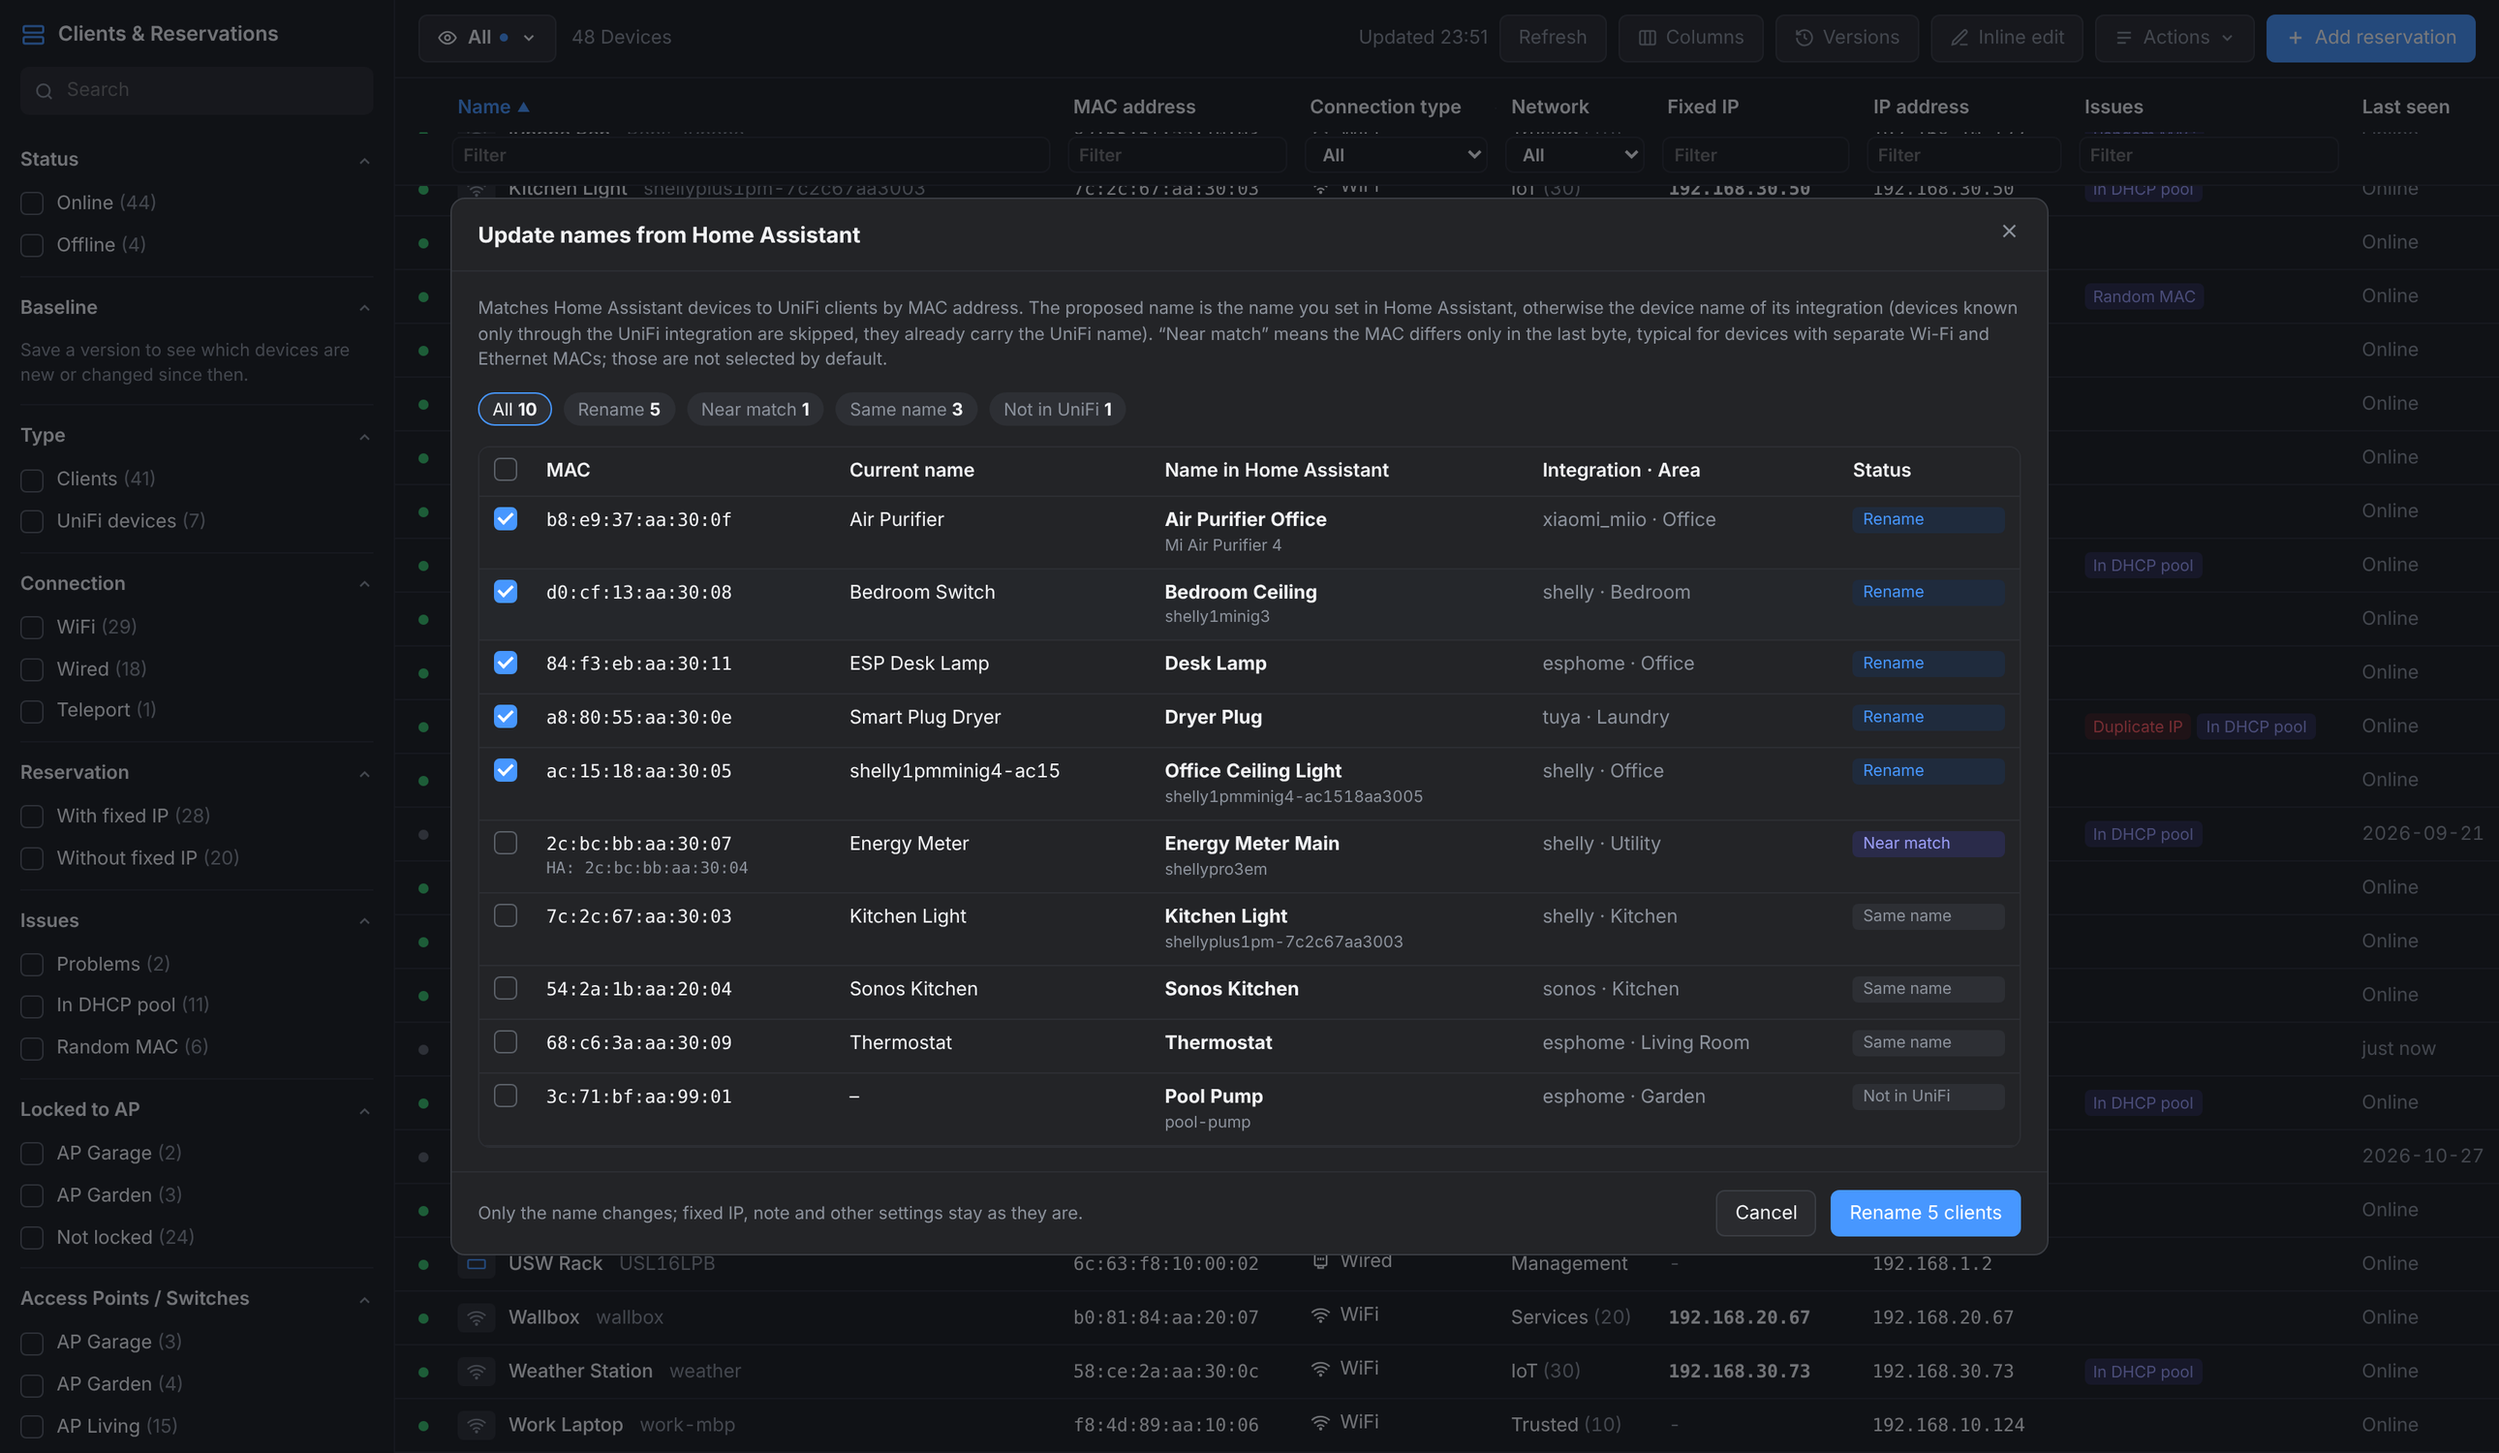
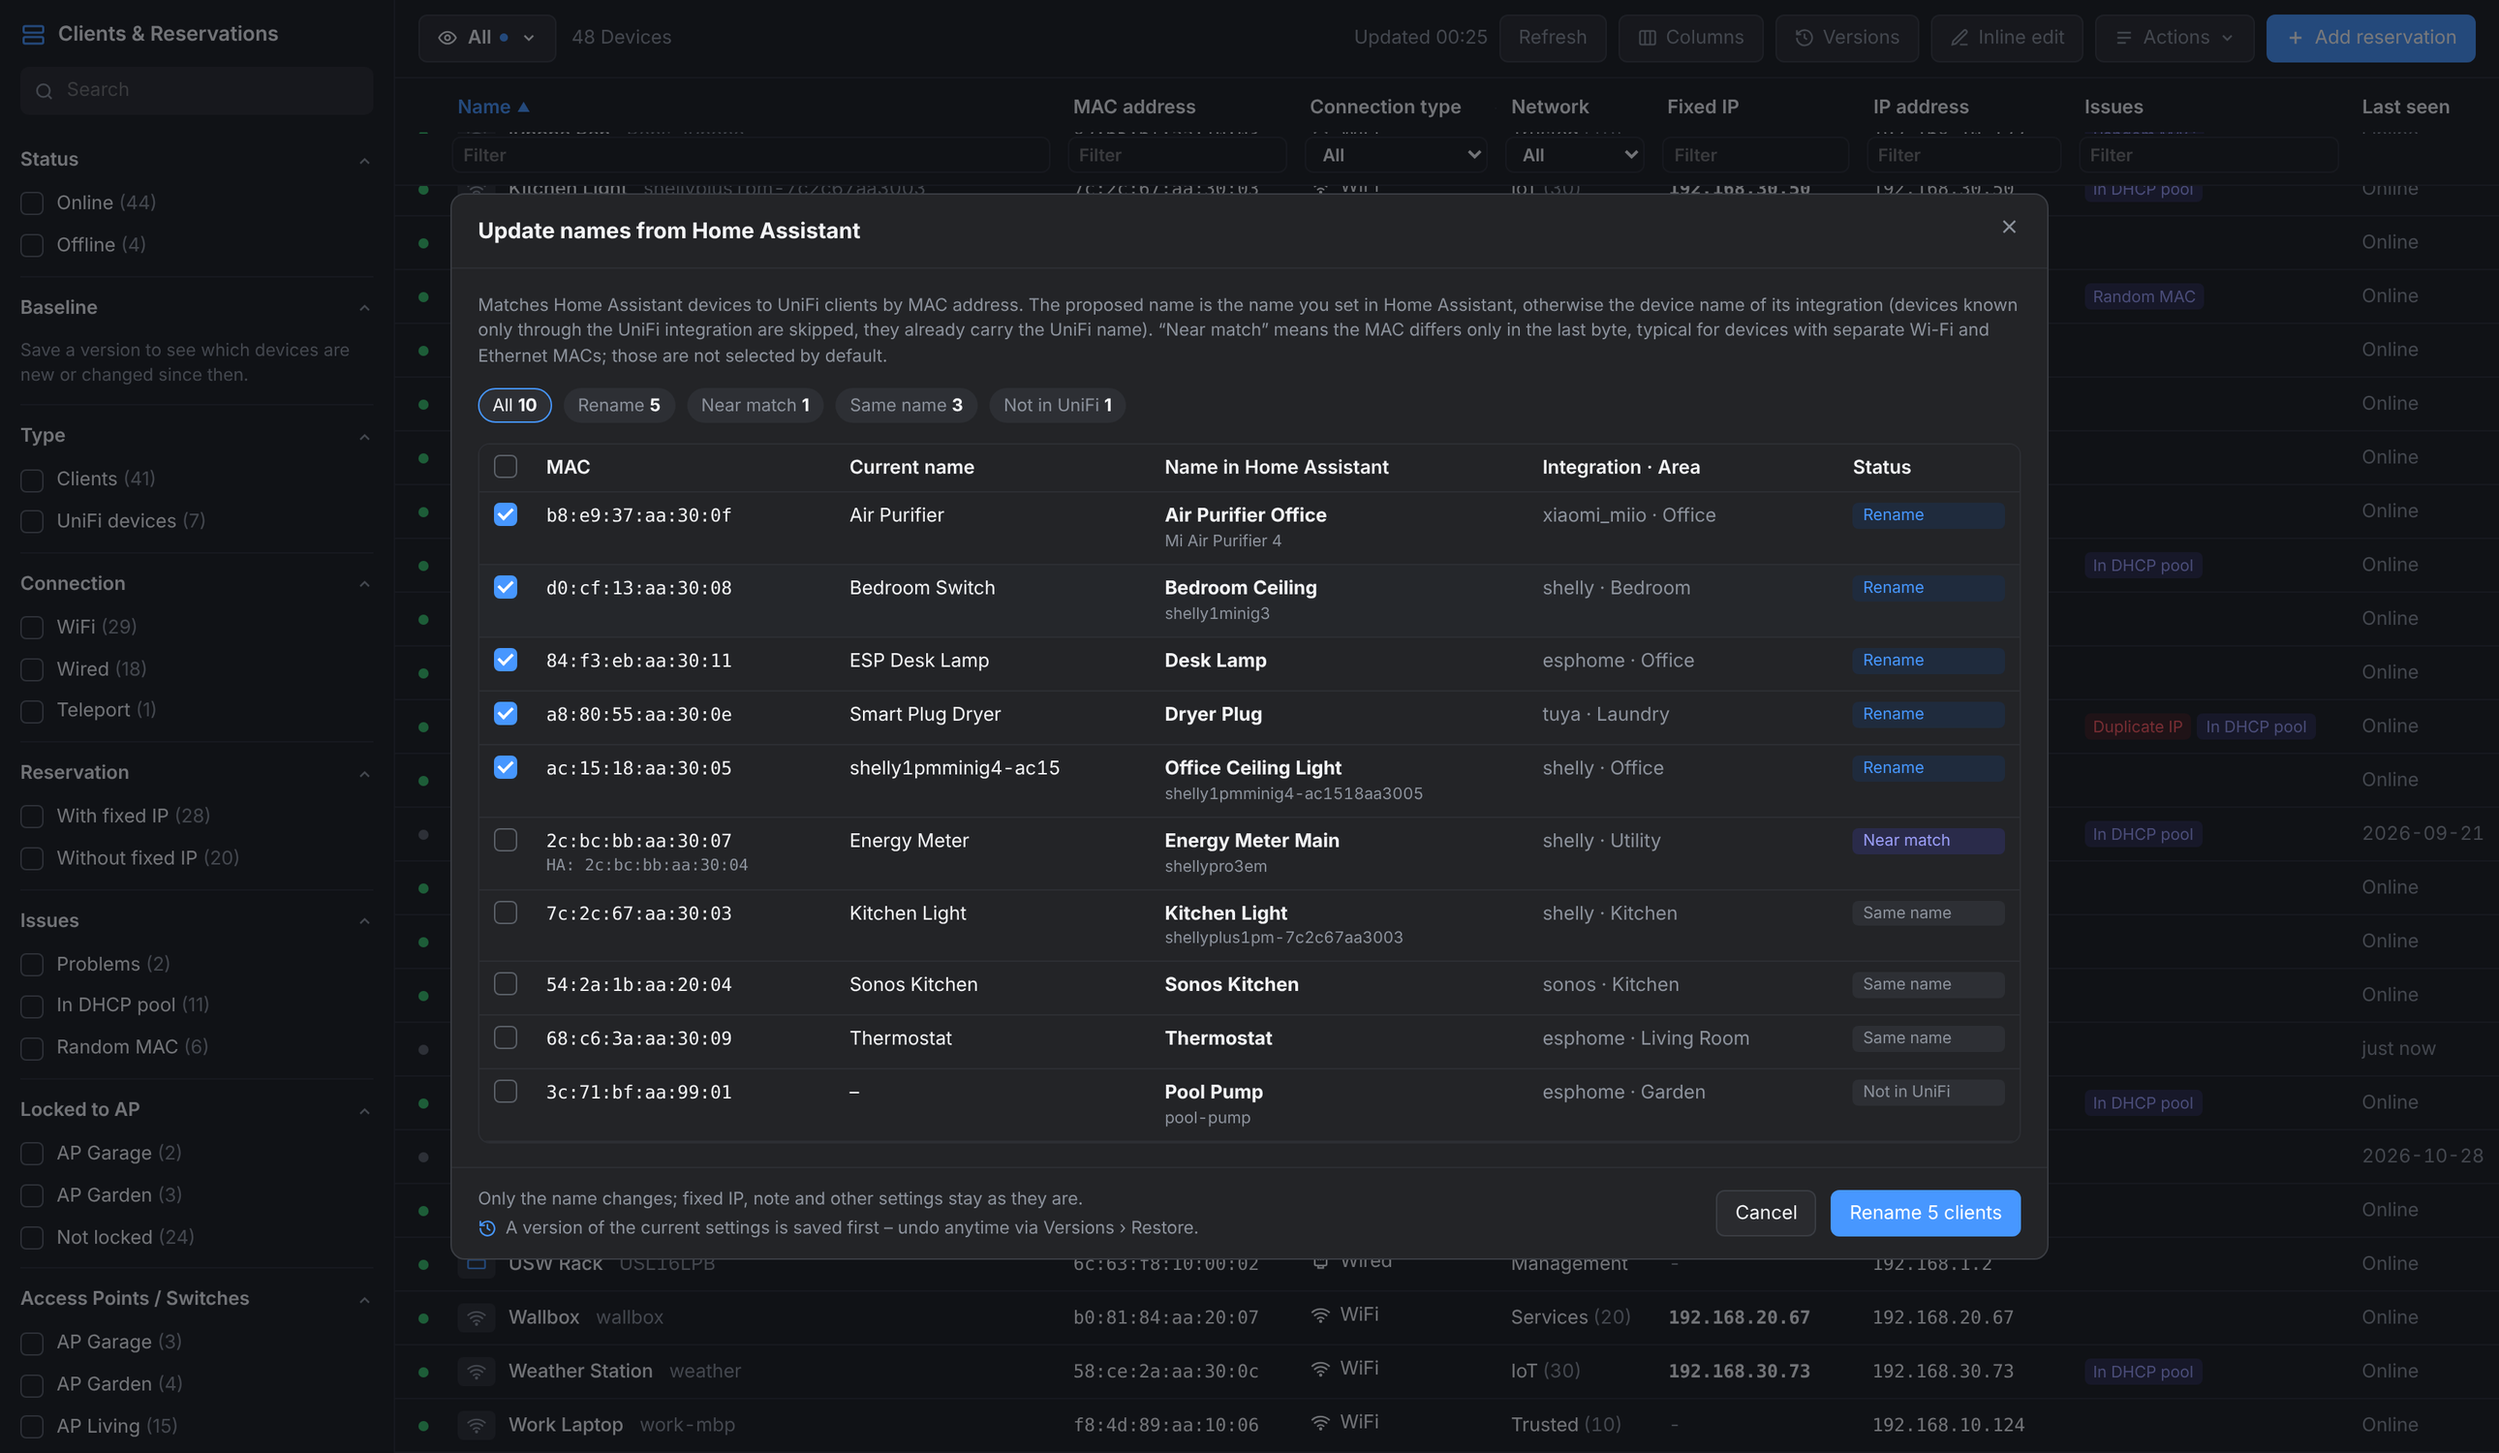
1.9.6: bulk dialogs mention the automatic version; CSV import screenshot
Claude-Session: https://claude.ai/code/session_01Qq55cKasRq5dm39rxnrsJV

diff --git a/dhcp_reservations/app/static/index.html b/dhcp_reservations/app/static/index.html
@@ -211,6 +211,9 @@ dialog#dlgSub{border:1px solid var(--line-strong);border-radius:10px;padding:0;b
 .switch input:checked::after{left:16px}
 .hint{font-size:12px;color:var(--muted)}
 .hint a{color:var(--accent)}
+.imp-foot .notes{display:flex;flex-direction:column;gap:3px;min-width:0}
+.vnote{display:flex;align-items:center;gap:6px}
+.vnote svg{flex:none;color:var(--accent)}
 .err{color:var(--bad);background:var(--bad-bg);padding:8px 10px;border-radius:6px}
 .actions{display:flex;gap:8px;justify-content:flex-end;flex-wrap:wrap}
 .danger-zone{display:grid;gap:10px}
@@ -375,7 +378,7 @@ dialog#dlgImport::backdrop{background:rgba(8,10,14,.55)}
       </div>
     </div>
     <div class="imp-foot">
-      <span class="hint" id="impNote">Rows with errors or without changes are not applied.</span>
+      <div class="notes"><span class="hint" id="impNote">Rows with errors or without changes are not applied.</span><span class="hint vnote"><svg width="13" height="13" viewBox="0 0 24 24" fill="none" stroke="currentColor" stroke-width="2" stroke-linecap="round" aria-hidden="true"><path d="M3 12a9 9 0 1 0 3-6.7L3 8"/><path d="M3 3v5h5M12 7v5l3 2"/></svg>A version of the current settings is saved first – undo anytime via Versions › Restore.</span></div>
       <div class="prog" id="impProg" hidden><i></i></div>
       <span class="sp"></span>
       <button class="btn" type="button" id="impCancel">Cancel</button>
@@ -408,7 +411,7 @@ dialog#dlgImport::backdrop{background:rgba(8,10,14,.55)}
       </div>
     </div>
     <div class="imp-foot">
-      <span class="hint">Rows with errors are never applied.</span>
+      <div class="notes"><span class="hint">Rows with errors are never applied.</span><span class="hint vnote"><svg width="13" height="13" viewBox="0 0 24 24" fill="none" stroke="currentColor" stroke-width="2" stroke-linecap="round" aria-hidden="true"><path d="M3 12a9 9 0 1 0 3-6.7L3 8"/><path d="M3 3v5h5M12 7v5l3 2"/></svg>A version of the current settings is saved first – undo anytime via Versions › Restore.</span></div>
       <div class="prog" id="subProg" hidden><i></i></div>
       <span class="sp"></span>
       <button class="btn" type="button" id="subCancel">Cancel</button>
@@ -426,7 +429,7 @@ dialog#dlgImport::backdrop{background:rgba(8,10,14,.55)}
       <div class="imp-table"><table><thead><tr><th style="width:34px"><label class="opt" title="Select all"><input type="checkbox" id="haAll" aria-label="Select all"></label></th><th>MAC</th><th>Current name</th><th>Name in Home Assistant</th><th>Integration · Area</th><th>Status</th></tr></thead><tbody id="haRows"></tbody></table></div>
     </div>
     <div class="imp-foot">
-      <span class="hint">Only the name changes; fixed IP, note and other settings stay as they are.</span>
+      <div class="notes"><span class="hint">Only the name changes; fixed IP, note and other settings stay as they are.</span><span class="hint vnote"><svg width="13" height="13" viewBox="0 0 24 24" fill="none" stroke="currentColor" stroke-width="2" stroke-linecap="round" aria-hidden="true"><path d="M3 12a9 9 0 1 0 3-6.7L3 8"/><path d="M3 3v5h5M12 7v5l3 2"/></svg>A version of the current settings is saved first – undo anytime via Versions › Restore.</span></div>
       <div class="prog" id="haProg" hidden><i></i></div>
       <span class="sp"></span>
       <button class="btn" type="button" id="haCancel">Cancel</button>

diff --git a/README.md b/README.md
@@ -33,25 +33,30 @@ versions you can compare and restore.
 | **Names from Home Assistant** | Proposes the names from the HA device registry, matched by MAC. Includes a "near match" for devices with separate WiFi/Ethernet MACs. |
 | **Versions** | Snapshot the table manually, daily, and automatically before every bulk action. **Compare** two versions (new / removed / changed devices; spots a device that came back with a new random MAC). **Restore** through a preview. A *Changed since …* filter shows what changed since a version. |
 | **CSV import & export** | Bulk changes with a validated preview and a checkbox per row. An export can be re-imported as is. |
+| **Safe bulk changes** | Every bulk action (CSV import, restore, replace subnet, names from HA) saves a version of the current settings first, so you can always go back via *Versions › Restore*. |
 
 ## Screenshots
 
 <table>
   <tr>
     <td width="50%"><img src="docs/screenshots/replace-subnet.png" alt="Replace subnet with collision check"><br><b>Replace subnet</b> – preview with collision check: an address that is already reserved is an error, an address in use is a warning.</td>
-    <td width="50%"><img src="docs/screenshots/compare-versions.png" alt="Compare versions"><br><b>Compare versions</b> – new, removed and changed devices since a snapshot.</td>
+    <td width="50%"><img src="docs/screenshots/csv-import.png" alt="CSV import with validation"><br><b>CSV import</b> – every row is validated before anything changes: duplicate IP, IP outside the network, invalid MAC, unknown AP.</td>
   </tr>
   <tr>
+    <td><img src="docs/screenshots/compare-versions.png" alt="Compare versions"><br><b>Compare versions</b> – new, removed and changed devices since a snapshot.</td>
     <td><img src="docs/screenshots/names-from-ha.png" alt="Names from Home Assistant"><br><b>Names from Home Assistant</b> – rename UniFi clients after your HA device names.</td>
+  </tr>
+  <tr>
     <td><img src="docs/screenshots/edit-panel.png" alt="Edit panel"><br><b>Edit</b> – fixed IP, network, AP lock and local DNS in the detail panel.</td>
-  </tr>
-  <tr>
     <td><img src="docs/screenshots/views.png" alt="Views"><br><b>Views</b> – e.g. the built-in <i>DHCP Reservations</i> view.</td>
-    <td><img src="docs/screenshots/inline-edit.png" alt="Inline edit"><br><b>Inline edit</b> – names and fixed IPs right in the table.</td>
   </tr>
   <tr>
+    <td><img src="docs/screenshots/inline-edit.png" alt="Inline edit"><br><b>Inline edit</b> – names and fixed IPs right in the table.</td>
     <td><img src="docs/screenshots/versions.png" alt="Versions"><br><b>Versions</b> – manual, daily and before-bulk-action snapshots.</td>
+  </tr>
+  <tr>
     <td><img src="docs/screenshots/changed-since.png" alt="Changed since filter"><br><b>Changed since …</b> – sidebar filter for new or changed devices.</td>
+    <td></td>
   </tr>
 </table>
 

diff --git a/dhcp_reservations/CHANGELOG.md b/dhcp_reservations/CHANGELOG.md
@@ -1,5 +1,8 @@
 # Changelog
 
+## 1.9.6
+- Bulk dialogs (CSV import, restore, replace subnet, names from HA) now say in the footer that a version of the current settings is saved first, so every bulk change can be undone via *Versions › Restore*.
+
 ## 1.9.5
 - Baseline filter simplified: one entry *Changed since …* per version (new devices + changed name, note, fixed IP, AP lock or DNS), for the baseline (★) and the latest versions, max. 5. IP or network moves alone do not count.
 - Fix: an active baseline filter no longer hides all rows while the versions are still loading.
